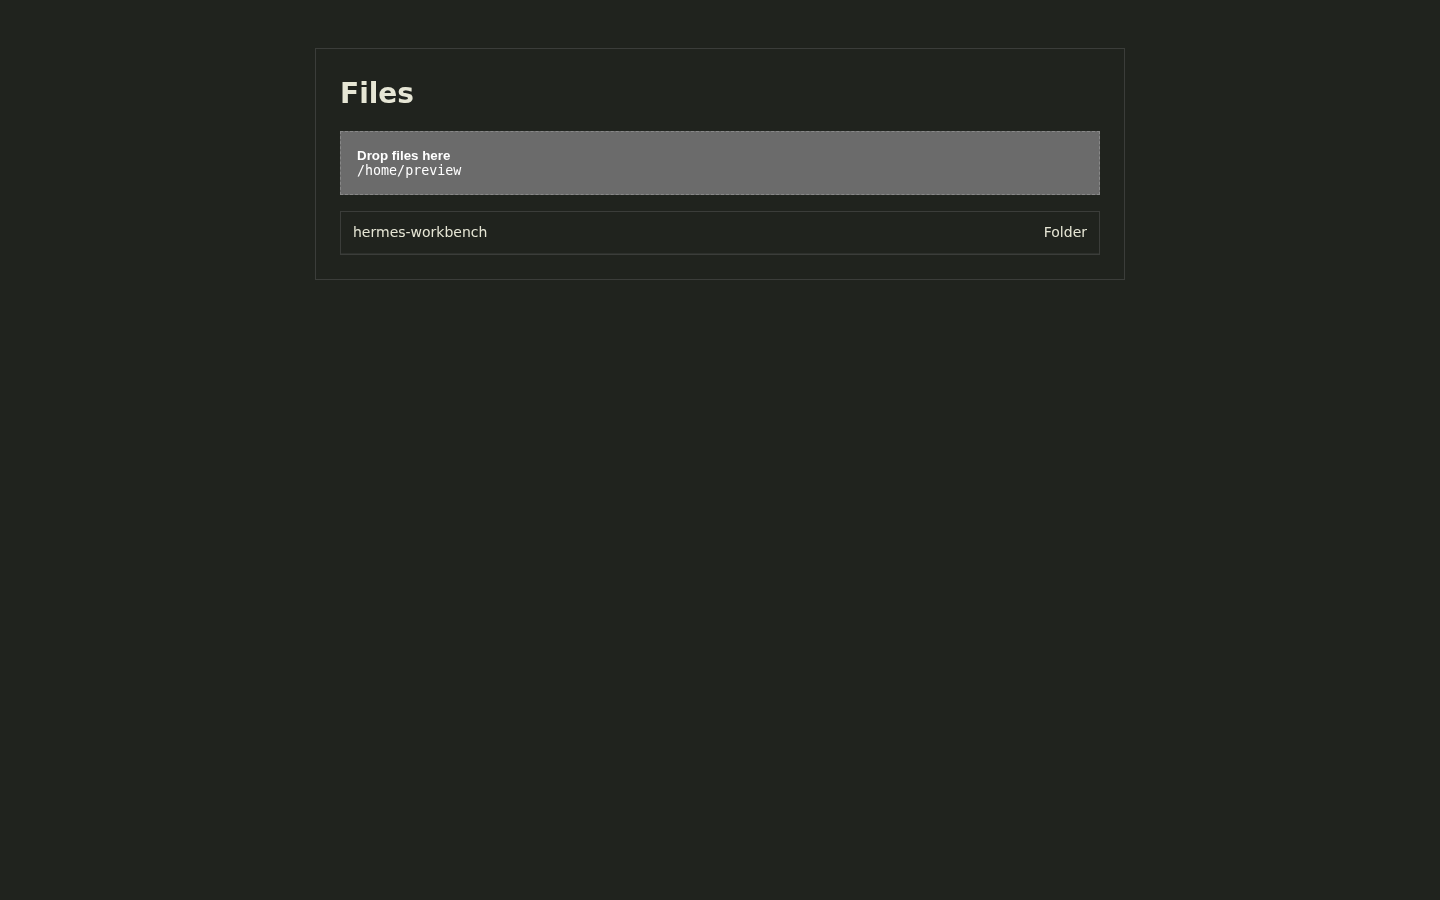
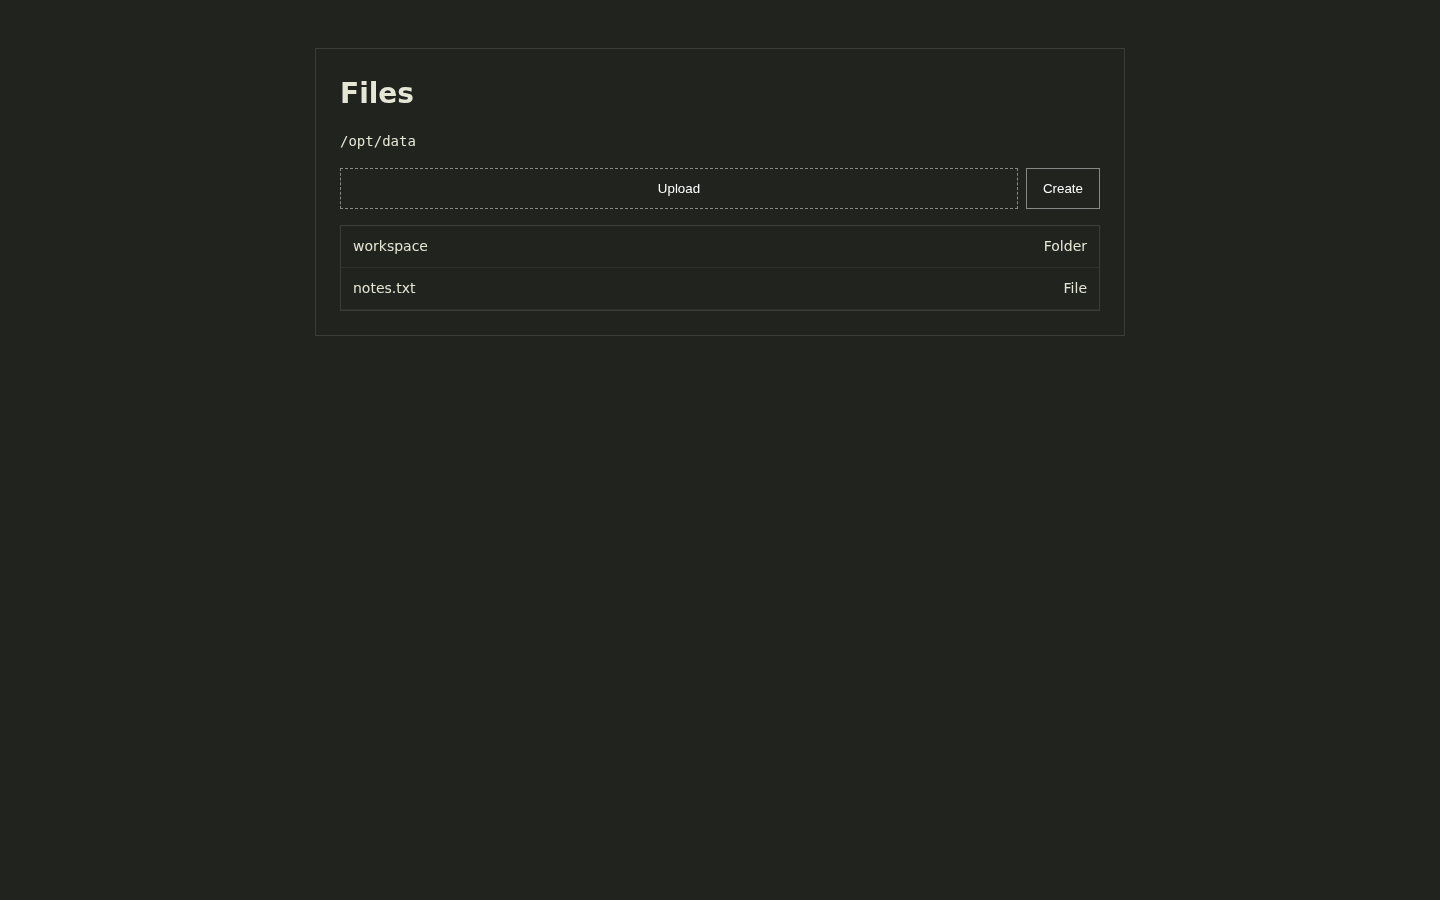
Recover explicit managed Files roots and clear stale errors (#132)

diff --git a/dashboard/src/files-listing.ts b/dashboard/src/files-listing.ts
@@ -22,15 +22,112 @@ export function normalizeManagedListing(value: unknown): unknown {
 const WORKBENCH_MANAGED_FILES = '/api/plugins/workbench/managed-files';
 const OUTSIDE_MANAGED_ROOT = /path outside managed files root/i;
 const LOADING_LABELS = new Set(['Loading', '正在加载']);
+const UNAVAILABLE_LABELS = new Set(['Unavailable', '不可用']);
+const ROOT_STORAGE_KEY = 'hermes.workbench.managedRoot';
+// The default host root is only a fallback hint. Any root returned by the API,
+// exposed by the host page, or discovered through the Workbench endpoint wins.
+const DEFAULT_MANAGED_ROOTS = ['/opt/data'];
+const ROOT_HINTS: Array<[string, string]> = [
+  ['[data-workbench-root]', 'data-workbench-root'],
+  ['[data-managed-files-root]', 'data-managed-files-root'],
+  ['[data-files-root]', 'data-files-root'],
+];
+const ROOT_GLOBALS = ['__HERMES_WORKBENCH_ROOT__', '__HERMES_MANAGED_FILES_ROOT__'];
+const rememberedRoots = new Set<string>();
 
-function isRootListingRequest(url: URL): boolean {
-  const path = url.searchParams.get('path')?.trim();
-  return !path || path === '.' || path === '/';
+/** Canonicalize a display path for equality checks without resolving '..'. */
+export function normalizeManagedRoot(value: unknown): string {
+  if (typeof value !== 'string') return '';
+  let path = value.trim().replace(/\\/g, '/');
+  if (!path) return '';
+  if (path.split('/').includes('..')) return path;
+  path = path.replace(/\/\.(?=\/|$)/g, '').replace(/\/{2,}/g, '/');
+  while (path.length > 1 && path.endsWith('/')) path = path.slice(0, -1);
+  return path;
+}
+
+function rememberRoot(value: unknown): string {
+  const root = normalizeManagedRoot(value);
+  if (!root || !root.startsWith('/') || root === '/') return '';
+  rememberedRoots.add(root);
+  try {
+    const previous = JSON.parse(sessionStorage.getItem(ROOT_STORAGE_KEY) || '[]') as unknown;
+    const roots = Array.isArray(previous) ? previous.filter((item): item is string => typeof item === 'string') : [];
+    if (!roots.includes(root)) sessionStorage.setItem(ROOT_STORAGE_KEY, JSON.stringify([...roots, root].slice(-8)));
+  } catch { /* Storage is optional; in-memory hints still work. */ }
+  return root;
+}
+
+function rootHints(): string[] {
+  const roots = [...rememberedRoots];
+  const host = window as typeof window & Record<string, unknown>;
+  for (const key of ROOT_GLOBALS) {
+    const value = host[key];
+    if (typeof value === 'string') roots.push(value);
+  }
+  for (const [selector, attribute] of ROOT_HINTS) {
+    for (const node of document.querySelectorAll<HTMLElement>(selector)) {
+      const value = node.getAttribute(attribute);
+      if (value) roots.push(value);
+    }
+  }
+  try {
+    const stored = JSON.parse(sessionStorage.getItem(ROOT_STORAGE_KEY) || '[]') as unknown;
+    if (Array.isArray(stored)) roots.push(...stored.filter((item): item is string => typeof item === 'string'));
+  } catch { /* Ignore corrupt or unavailable storage. */ }
+  roots.push(...DEFAULT_MANAGED_ROOTS);
+  return roots.map(normalizeManagedRoot).filter(root => root.startsWith('/') && root !== '/');
+}
+
+function isRootRequest(path: string, roots: string[]): boolean {
+  if (!path || path === '.' || path === '/') return true;
+  return roots.includes(normalizeManagedRoot(path));
 }
 
 function requestInit(init: RequestInit | undefined, request: Request | undefined): RequestInit | undefined {
   if (!request) return init;
   return { method: request.method, headers: request.headers, credentials: request.credentials };
+}
+
+function fallbackURL(path: string): string {
+  const url = new URL(WORKBENCH_MANAGED_FILES, window.location.origin);
+  if (path) url.searchParams.set('path', path);
+  return `${url.pathname}${url.search}`;
+}
+
+/** Remove the stale red banner after a successful root recovery. */
+export function clearManagedListingError(root: ParentNode = document): boolean {
+  if (window.location.pathname !== '/files') return false;
+  let cleared = false;
+  for (const node of Array.from(root.querySelectorAll<HTMLElement>('[class*="text-destructive"]'))) {
+    if (!OUTSIDE_MANAGED_ROOT.test(node.textContent?.trim() || '')) continue;
+    let container = node.closest<HTMLElement>('[role="alert"], [data-files-error]');
+    for (let parent = node.parentElement, depth = 0; !container && parent && parent !== root && depth < 3;
+      parent = parent.parentElement, depth += 1) {
+      const classes = typeof parent.className === 'string' ? parent.className : '';
+      if (/bg-destructive|border-destructive/.test(classes)) container = parent;
+    }
+    (container || node).remove();
+    cleared = true;
+  }
+  if (cleared) {
+    const label = root.querySelector<HTMLElement>(
+      'button[aria-label="Upload files"] [title], button[aria-label="上传文件"] [title]',
+    );
+    const original = label?.dataset.htiFilesOriginalLabel;
+    if (label && original && UNAVAILABLE_LABELS.has(label.textContent?.trim() || '')) {
+      label.textContent = original;
+      delete label.dataset.htiFilesOriginalLabel;
+    }
+  }
+  return cleared;
+}
+
+function scheduleErrorCleanup(): void {
+  const clean = () => { clearManagedListingError(); };
+  clean();
+  requestAnimationFrame(clean);
+  for (const delay of [50, 250, 1000]) setTimeout(clean, delay);
 }
 
 /**
@@ -45,28 +142,45 @@ async function recoverRootListing(
   request: Request | undefined,
   nativeFetch: typeof fetch,
 ): Promise<Response> {
-  if (response.status !== 403 || !isRootListingRequest(url)) return response;
+  if (response.status !== 403) return response;
   const failure = await response.clone().json().catch(() => null) as { detail?: unknown } | null;
   if (!OUTSIDE_MANAGED_ROOT.test(String(failure?.detail || ''))) return response;
 
-  const fallback = await nativeFetch(WORKBENCH_MANAGED_FILES, requestInit(init, request));
+  const requested = url.searchParams.get('path')?.trim() || '';
+  if (requested.split('/').includes('..')) return response;
+  const roots = rootHints();
+  const knownRoot = isRootRequest(requested, roots);
+  // Relative child paths are never recovered. An unknown absolute path may be
+  // the configured dashboard.workbench.root, so probe it and require the
+  // Workbench response to identify that exact path as its managed root.
+  if (requested && !knownRoot && !requested.startsWith('/')) return response;
+  const explicitPath = requested && requested !== '.' && requested !== '/' ? requested : '';
+
+  const fallback = await nativeFetch(fallbackURL(explicitPath), requestInit(init, request));
   if (!fallback.ok || !fallback.headers.get('content-type')?.includes('application/json')) {
     return response;
   }
-  const listing = await fallback.json().catch(() => null);
+  const listing = await fallback.json().catch(() => null) as { root?: unknown; locked_root?: unknown; path?: unknown } | null;
+  const reportedRoot = rememberRoot(listing?.root) || rememberRoot(listing?.locked_root);
+  if (explicitPath && reportedRoot !== normalizeManagedRoot(explicitPath)) return response;
+
   const payload = normalizeManagedListing(listing);
   if (!payload || typeof payload !== 'object'
     || typeof (payload as { path?: unknown }).path !== 'string'
     || !Array.isArray((payload as { entries?: unknown }).entries)) {
     return response;
   }
+  if (explicitPath && normalizeManagedRoot((payload as { path?: unknown }).path) !== normalizeManagedRoot(explicitPath)) {
+    return response;
+  }
+  scheduleErrorCleanup();
   return new Response(JSON.stringify(payload), {
     status: 200,
     headers: { 'Content-Type': 'application/json' },
   });
 }
 
-/** Replace the native fallback label once a listing error is visible. */
+/** Replace the native fallback label once an unrecovered listing error is visible. */
 export function settleFilesLoadingLabel(root: ParentNode = document): boolean {
   if (window.location.pathname !== '/files') return false;
   const error = Array.from(root.querySelectorAll<HTMLElement>('div.text-destructive'))
@@ -77,6 +191,7 @@ export function settleFilesLoadingLabel(root: ParentNode = document): boolean {
   );
   const text = label?.textContent?.trim() || '';
   if (!label || !LOADING_LABELS.has(text)) return false;
+  label.dataset.htiFilesOriginalLabel = text;
   label.textContent = /[\u4e00-\u9fff]/.test(text) ? '不可用' : 'Unavailable';
   return true;
 }
@@ -97,7 +212,13 @@ export function installManagedFilesListing(): void {
     if (recovered !== response) return recovered;
     if (!response.ok || !response.headers.get('content-type')?.includes('application/json')) return response;
     const readJSON = response.json.bind(response);
-    response.json = async () => normalizeManagedListing(await readJSON());
+    response.json = async () => {
+      const payload = await readJSON();
+      const listing = payload as { root?: unknown; locked_root?: unknown } | null;
+      rememberRoot(listing?.root);
+      rememberRoot(listing?.locked_root);
+      return normalizeManagedListing(payload);
+    };
     return response;
   };
   let scheduled = false;

diff --git a/tests/files-listing.test.ts b/tests/files-listing.test.ts
@@ -1,6 +1,6 @@
 // @vitest-environment happy-dom
 import { afterEach, describe, expect, it, vi } from 'vitest';
-import { normalizeManagedListing, installManagedFilesListing, settleFilesLoadingLabel } from '../dashboard/src/files-listing';
+import { clearManagedListingError, installManagedFilesListing, normalizeManagedListing, settleFilesLoadingLabel } from '../dashboard/src/files-listing';
 import { closeFilePreview, openFilePreview, showFilePreviewLoading } from '../dashboard/src/file-preview';
 
 afterEach(() => { closeFilePreview(); vi.unstubAllGlobals(); delete (window as any).__HTI_FILES_LISTING__; });
@@ -49,17 +49,95 @@ describe('Files symlink and download regressions', () => {
     expect(await response.json()).toEqual(recovered);
     expect(fetcher).toHaveBeenLastCalledWith('/api/plugins/workbench/managed-files', undefined);
   });
-  it('keeps a real out-of-root path rejected without trying the recovery endpoint', async () => {
+  it('recovers an explicit /opt/data root before native metadata is known', async () => {
     window.history.replaceState(null, '', '/files');
     const failure = { detail: 'Path outside managed files root' };
-    const fetcher = vi.fn(async () => new Response(JSON.stringify(failure), { status: 403, headers: { 'content-type': 'application/json' } }));
+    const recovered = {
+      root: '/opt/data', locked_root: '/opt/data', can_change_path: false,
+      path: '/opt/data', parent: null,
+      entries: [
+        { name: 'workspace', path: '/opt/data/workspace', is_directory: true, size: null, mtime: 1, mime_type: null },
+      ],
+    };
+    const fetcher = vi.fn(async (input: RequestInfo | URL) => {
+      if (String(input).startsWith('/api/plugins/workbench/managed-files')) {
+        return new Response(JSON.stringify(recovered), { headers: { 'content-type': 'application/json' } });
+      }
+      return new Response(JSON.stringify(failure), { status: 403, headers: { 'content-type': 'application/json' } });
+    });
     vi.stubGlobal('fetch', fetcher);
     installManagedFilesListing();
 
-    const response = await fetch('/api/files?path=%2Fopt%2Fshared-auth');
-    expect(response.status).toBe(403);
-    expect(await response.json()).toEqual(failure);
-    expect(fetcher).toHaveBeenCalledTimes(1);
+    const response = await fetch('/api/files?path=%2Fopt%2Fdata');
+    expect(response.status).toBe(200);
+    expect(await response.json()).toEqual(recovered);
+    expect(fetcher).toHaveBeenLastCalledWith('/api/plugins/workbench/managed-files?path=%2Fopt%2Fdata', undefined);
+  });
+  it('discovers a configured dashboard.workbench.root instead of hardcoding /opt/data', async () => {
+    window.history.replaceState(null, '', '/files');
+    const failure = { detail: 'Path outside managed files root' };
+    const recovered = {
+      root: '/srv/hermes-workbench', locked_root: '/srv/hermes-workbench', can_change_path: false,
+      path: '/srv/hermes-workbench', parent: null,
+      entries: [{ name: 'configs', path: '/srv/hermes-workbench/configs', is_directory: true, size: null, mtime: 1, mime_type: null }],
+    };
+    const fetcher = vi.fn(async (input: RequestInfo | URL) => {
+      if (String(input).startsWith('/api/plugins/workbench/managed-files')) {
+        return new Response(JSON.stringify(recovered), { headers: { 'content-type': 'application/json' } });
+      }
+      return new Response(JSON.stringify(failure), { status: 403, headers: { 'content-type': 'application/json' } });
+    });
+    vi.stubGlobal('fetch', fetcher);
+    installManagedFilesListing();
+
+    const response = await fetch('/api/files?path=%2Fsrv%2Fhermes-workbench');
+    expect(response.status).toBe(200);
+    expect((await response.json() as typeof recovered).root).toBe('/srv/hermes-workbench');
+    expect(fetcher).toHaveBeenLastCalledWith('/api/plugins/workbench/managed-files?path=%2Fsrv%2Fhermes-workbench', undefined);
+  });
+  it('keeps real out-of-root and child paths rejected', async () => {
+    window.history.replaceState(null, '', '/files');
+    const failure = { detail: 'Path outside managed files root' };
+    const childListing = { root: '/opt/data', locked_root: '/opt/data', path: '/opt/data/workspace', parent: '/opt/data', entries: [] };
+    const fetcher = vi.fn(async (input: RequestInfo | URL) => {
+      if (String(input).startsWith('/api/plugins/workbench/managed-files')
+        && String(input).includes('path=%2Fopt%2Fdata%2Fworkspace')) {
+        return new Response(JSON.stringify(childListing), { headers: { 'content-type': 'application/json' } });
+      }
+      return new Response(JSON.stringify(failure), { status: 403, headers: { 'content-type': 'application/json' } });
+    });
+    vi.stubGlobal('fetch', fetcher);
+    installManagedFilesListing();
+
+    const statuses: Record<string, number> = {};
+    for (const path of ['%2Fopt%2Fshared-auth', '%2Fetc', '%2Fopt%2Fdata%2Fworkspace', '..%2Foutside']) {
+      const response = await fetch(`/api/files?path=${path}`);
+      statuses[path] = response.status;
+      expect(await response.json()).toEqual(failure);
+    }
+    expect(statuses).toEqual(Object.fromEntries(Object.keys(statuses).map(path => [path, 403])));
+    expect(fetcher.mock.calls.some(([input]) => String(input).startsWith('/api/plugins/workbench/managed-files')
+      && String(input).includes('path=..%2Foutside'))).toBe(false);
+  });
+  it('removes the stale managed-root banner after a successful recovery', async () => {
+    window.history.replaceState(null, '', '/files');
+    document.body.innerHTML = `
+      <div role="alert"><div class="text-destructive">Path outside managed files root</div></div>
+      <button aria-label="Upload files"><span title="">Loading</span></button>`;
+    const failure = { detail: 'Path outside managed files root' };
+    const recovered = { root: '/opt/data', locked_root: '/opt/data', path: '/opt/data', parent: null, entries: [] };
+    const fetcher = vi.fn(async (input: RequestInfo | URL) => {
+      if (String(input).startsWith('/api/plugins/workbench/managed-files')) {
+        return new Response(JSON.stringify(recovered), { headers: { 'content-type': 'application/json' } });
+      }
+      return new Response(JSON.stringify(failure), { status: 403, headers: { 'content-type': 'application/json' } });
+    });
+    vi.stubGlobal('fetch', fetcher);
+    installManagedFilesListing();
+
+    expect((await fetch('/api/files?path=%2Fopt%2Fdata')).status).toBe(200);
+    expect(document.querySelector('[role="alert"]')).toBeNull();
+    expect(document.querySelector('button[aria-label="Upload files"] span')?.textContent).toBe('Loading');
   });
   it('ends the native loading label when a listing error is shown', () => {
     window.history.replaceState(null, '', '/files');
@@ -69,6 +147,10 @@ describe('Files symlink and download regressions', () => {
 
     expect(settleFilesLoadingLabel()).toBe(true);
     expect(document.querySelector('button[aria-label="Upload files"] span')?.textContent).toBe('Unavailable');
+
+    expect(clearManagedListingError()).toBe(true);
+    expect(document.querySelector('div.text-destructive')).toBeNull();
+    expect(document.querySelector('button[aria-label="Upload files"] span')?.textContent).toBe('Loading');
 
     document.body.innerHTML = '<button aria-label="Upload files"><span title="">Loading</span></button>';
     expect(settleFilesLoadingLabel()).toBe(false);

diff --git a/CHANGELOG.md b/CHANGELOG.md
@@ -5,7 +5,7 @@
 - Read the OpenCode Go catalog from the officially documented inference endpoint, accept OPENCODE_API_KEY as a server-side credential alongside the private auth file, and document the official Go API, plan limits, and OpenCodex provider setup with a credential-free, idempotent scripts/configure-opencode-go.py helper. Fetch the public catalog without sending keys or cookies.
 - Put the completed-task checkbox beside the card title and shorten the completed-column actions to Select, Clear, Archive, and Show archived.
 - Prioritize final PR/commit/demo/report links in task review, fall back to a locally rendered Mermaid stage report, and replace passive execution-session text with direct local or remote Workbench entry points.
-- Recover the Files root listing when a managed directory contains an external symlink, while still rejecting genuine out-of-root paths and ending the loading label after an error.
+- Recover the Files root listing when a managed directory contains an external symlink, including explicit `/opt/data` and configured `dashboard.workbench.root` requests, while still rejecting genuine out-of-root paths and clearing the stale error banner after recovery.
 - Answer /healthz with {"ok":true} so liveness probes pass while the release assets that /health requires are still missing.
 - Fold completed chat work to one summary line and open it as a bounded scroll window whose height follows the detail level, so long reasoning and tool output no longer stretch the transcript.
 - Answer the Codex runtime status check from cached metadata and move release lookups into the background, so a slow GitHub request no longer times out the health monitor or blocks the version page.

diff --git a/artifacts/files-root-recovery-20261105/README.md b/artifacts/files-root-recovery-20261105/README.md
@@ -1,0 +1,32 @@
+# Files root recovery evidence
+
+The Files page now recovers a native `/api/files` 403 for the managed root
+through `/api/plugins/workbench/managed-files`. The request is accepted only
+when the fallback reports the same path as `root`/`locked_root`; `/etc`,
+`../outside`, and child paths remain forbidden. The stale red banner is removed
+after recovery, and the upload/create controls stay enabled.
+
+## Screenshots
+
+| viewport | theme | file |
+| --- | --- | --- |
+| 390 x 844 | light | `mobile-390-light-files-root-recovered.png` |
+| 390 x 844 | dark | `mobile-390-dark-files-root-recovered.png` |
+| 1440 x 900 | light | `desktop-light-files-root-recovered.png` |
+| 1440 x 900 | dark | `desktop-dark-files-root-recovered.png` |
+
+## Reproduction
+
+```sh
+XDG_CONFIG_HOME="$PWD/.config-empty" pnpm build
+CHROMIUM_EXECUTABLE_PATH=/path/to/chrome-headless-shell \
+  node tests/browser/files-root-recovery.mjs
+pnpm typecheck
+pnpm test
+pnpm test:python -- tests/test_managed_files_listing.py
+```
+
+The screenshots use the repository's deterministic mock host. They verify the
+recovery path, skipped external symlink, forbidden paths, banner cleanup, and
+enabled upload/create controls; they are not a capture of the production NAS
+instance. No daily instance was switched or deployed.
